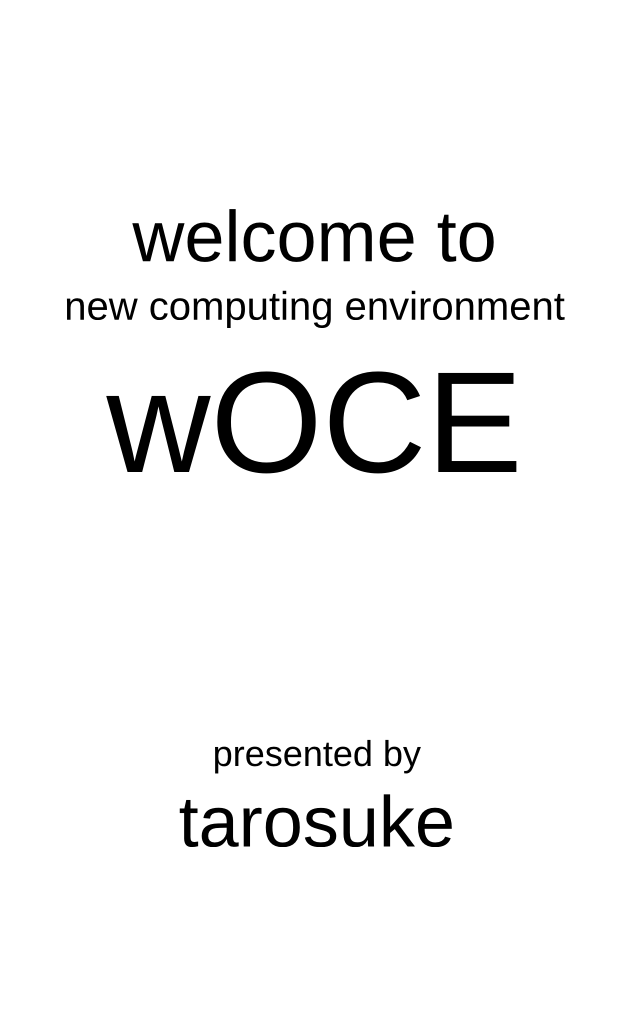
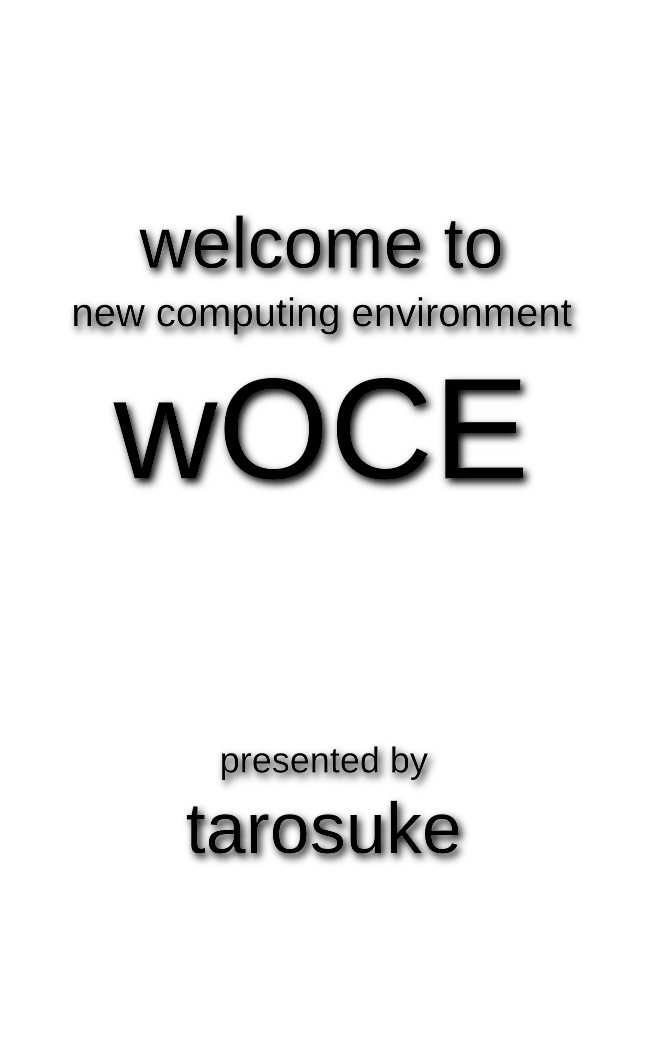
エイリアス避けに元画像を修正 #209

Changed region(s): [[0.0902, 0.1875, 0.9019, 0.4688], [0.2706, 0.7188, 0.7215, 0.8438]]

diff --git a/view/welcome.h b/view/welcome.h
@@ -17,7 +17,7 @@ private:
 	static const float frameDuration = 1.0 / 75;
 	GL::TEXTURE texture;
 
-	static const float width = 632.0 / 10000;
-	static const float height = 1024.0 / 10000;
+	static const float width = 652.0 / 10000;
+	static const float height = 1045.0 / 10000;
 };
 
